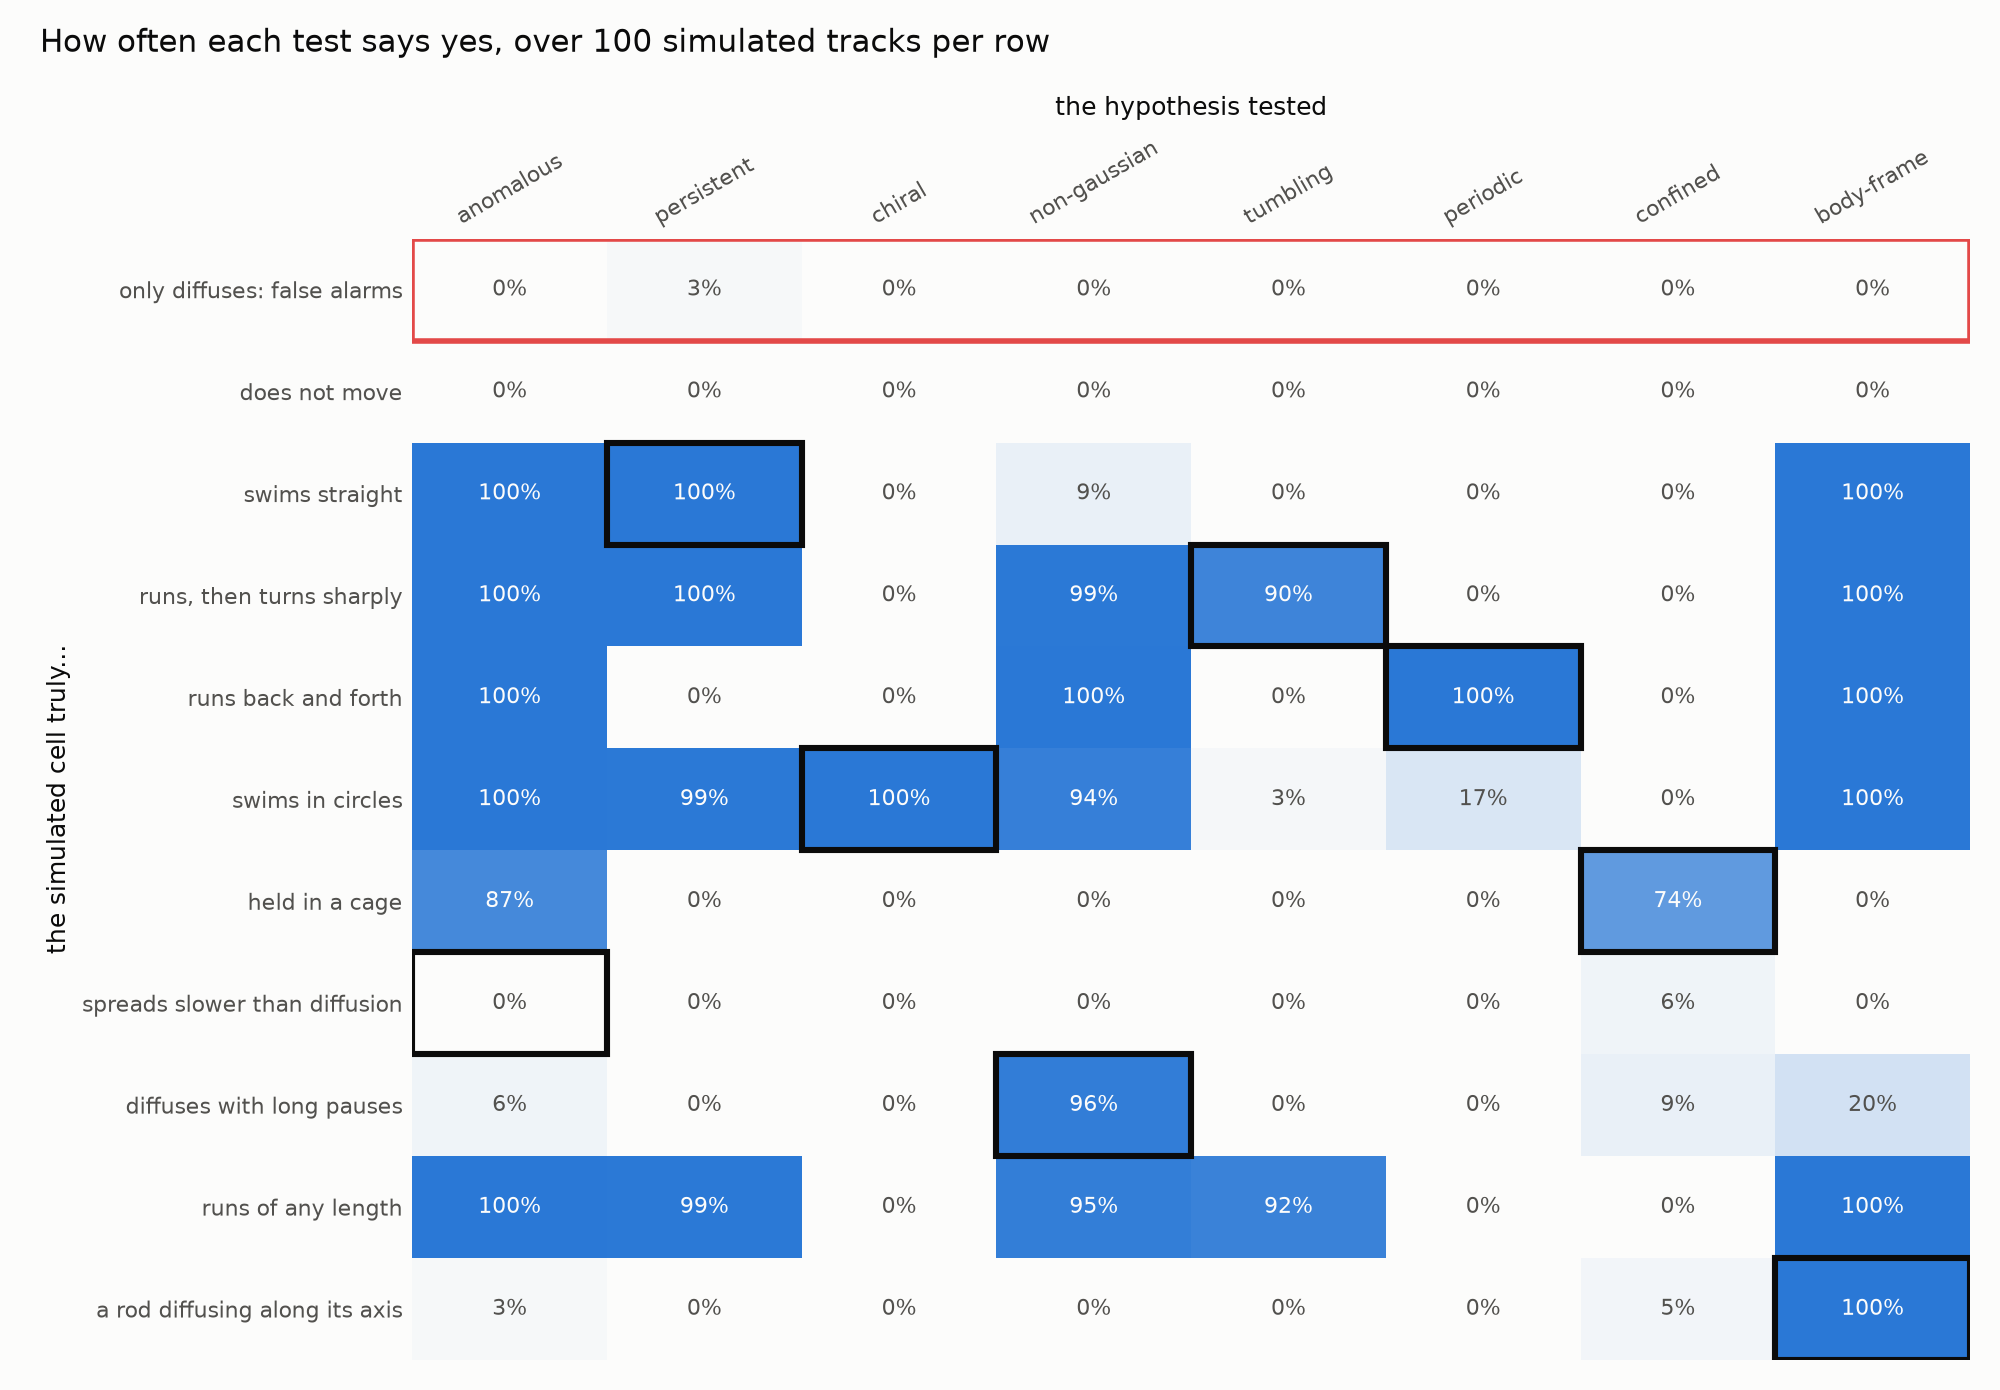
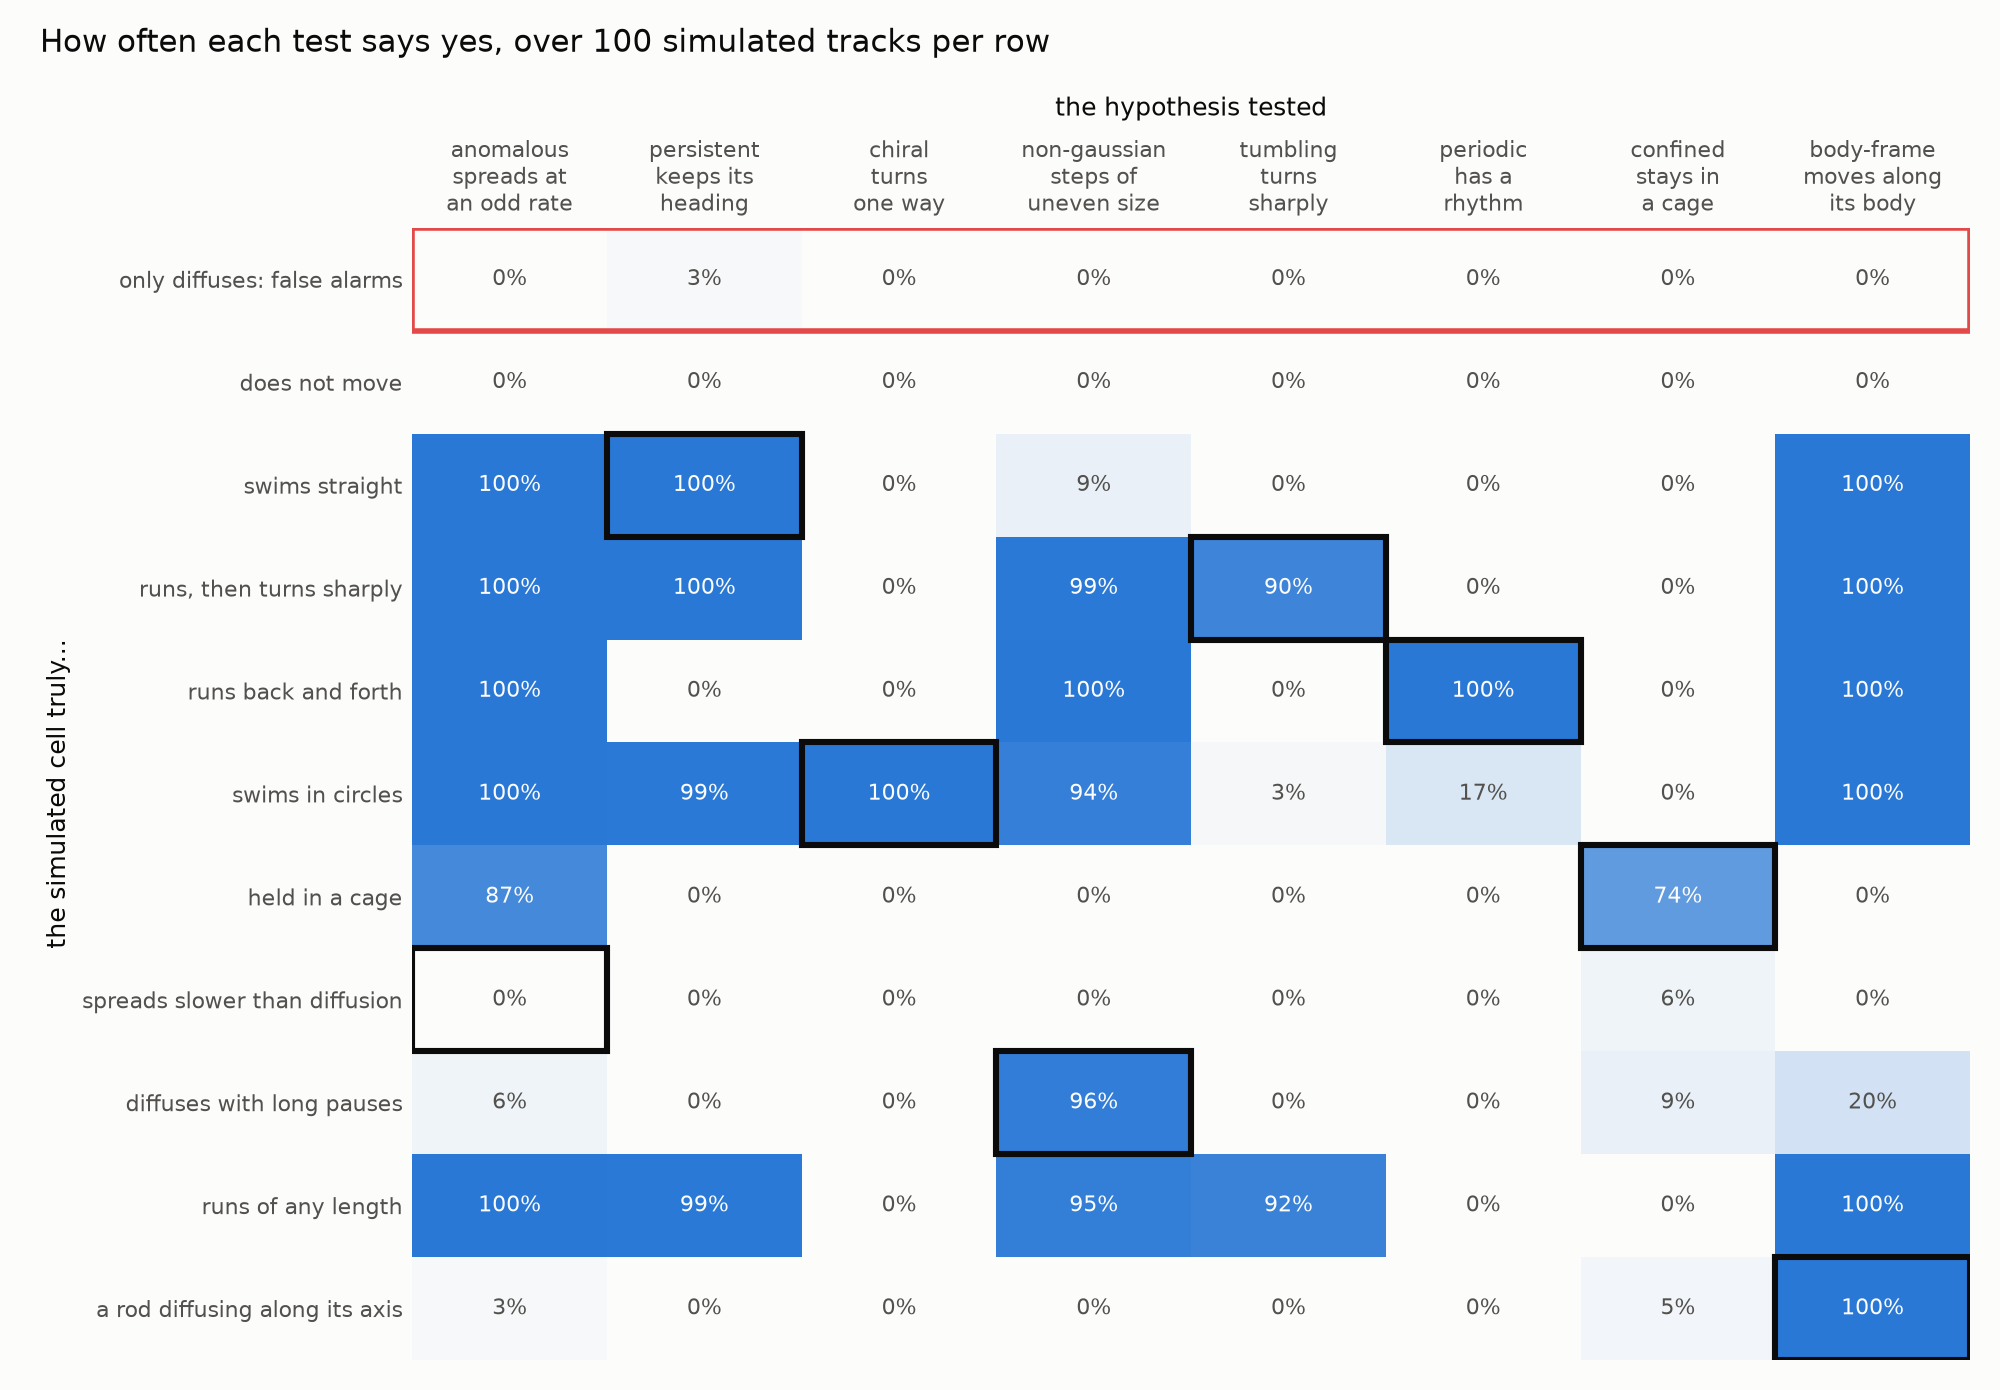
fix: each hypothesis says in words what it asks of a track; the obstacle masked as decor

diff --git a/src/microorganism_computer_vision/reporting/pictures/charts/power.py b/src/microorganism_computer_vision/reporting/pictures/charts/power.py
@@ -49,6 +49,18 @@ IN_WORDS: Final = {
 }
 """Each simulated behaviour as a reader says it, without the physicist's name."""
 
+ASKS: Final = {
+    Hypothesis.ANOMALOUS: "spreads at\nan odd rate",
+    Hypothesis.PERSISTENT: "keeps its\nheading",
+    Hypothesis.CHIRAL: "turns\none way",
+    Hypothesis.NON_GAUSSIAN: "steps of\nuneven size",
+    Hypothesis.TUMBLING: "turns\nsharply",
+    Hypothesis.PERIODIC: "has a\nrhythm",
+    Hypothesis.CONFINED: "stays in\na cage",
+    Hypothesis.BODY_FRAME: "moves along\nits body",
+}
+"""What each test asks of a track, under its name."""
+
 SAYS_YES: Final = LinearSegmentedColormap.from_list("yes", ["#fcfcfb", "#2a78d6"])
 SHOWN: Final = (
     Hypothesis.ANOMALOUS,
@@ -93,7 +105,9 @@ def power(rates: RejectionRates, path: Path) -> Path:
     axes.add_patch(
         Rectangle((-0.5, -0.5), len(SHOWN), 1, fill=False, edgecolor="#e34948", lw=2)
     )
-    axes.set_xticks(range(len(SHOWN)), [test.value for test in SHOWN], rotation=30)
+    axes.set_xticks(
+        range(len(SHOWN)), [f"{test.value}\n{ASKS[test]}" for test in SHOWN]
+    )
     axes.set_yticks(
         range(len(behaviours)), [IN_WORDS.get(item, item.value) for item in behaviours]
     )
